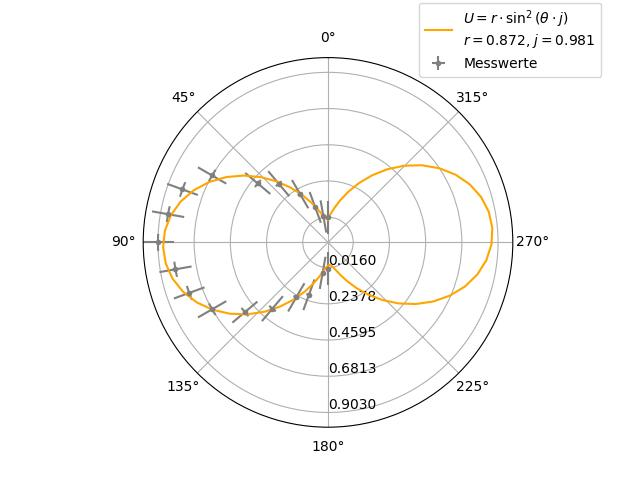
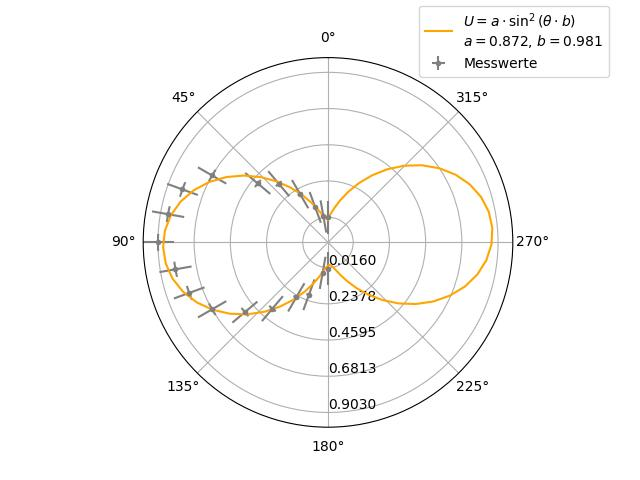
changed the fit paramter names for herz_dipol

Changed region(s): [[0.6562, 0.0, 0.9375, 0.0938], [0.9375, 0.0938, 0.9688, 0.125]]

diff --git a/hertz_dipol/hertz_dipol.py b/hertz_dipol/hertz_dipol.py
@@ -4,7 +4,7 @@ import pandas as pd
 from scipy.optimize import curve_fit
 
 def Voltage(x, r, j):
-    return r*(abs(np.sin(x*j)**2))
+    return r*(np.sin(x*j)**2)
 
 def get_r_ticks(u):
     return np.linspace(min(u), max(u), num=5) 
@@ -21,7 +21,7 @@ _U = Voltage(_Theta, r, j)
 
 fig, ax = plt.subplots(subplot_kw={'projection': 'polar'})#, figsize=(10,10))
 ax.errorbar(theta, m_U, yerr=0.1, xerr=0.05, color='gray', fmt='.', label='Messwerte')
-ax.plot(_Theta, _U, label=r'$U=r\cdot\sin^2\left(\theta\cdot j\right)$''\n''$r='f'{round(r, 3)}'r'$, $j='f'{round(j, 3)}'r'$', color='orange')
+ax.plot(_Theta, _U, label=r'$U=a\cdot\sin^2\left(\theta\cdot b\right)$''\n'r'$a='f'{round(r, 3)}'r'$, $b='f'{round(j, 3)}'r'$', color='orange')
 
 ax.set_rmax((max(m_U)*1.1))
 ax.set_rticks(get_r_ticks(m_U))
